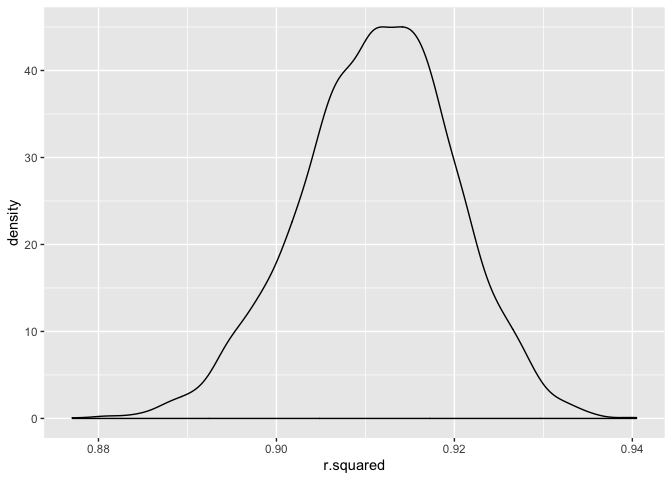
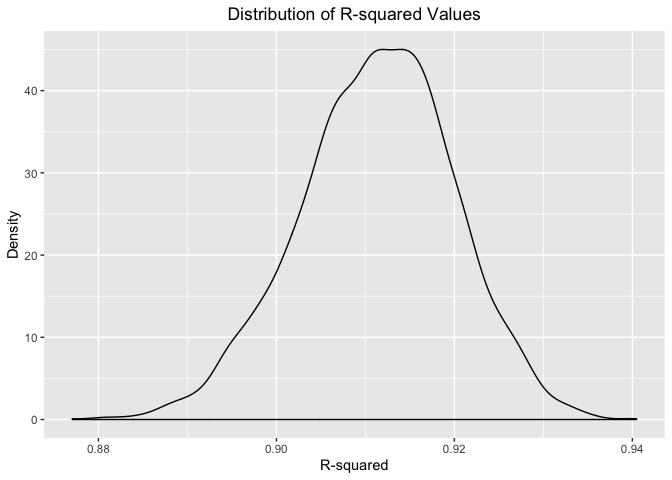
plot formatting

diff --git a/p8105_hw6_sm4594.md b/p8105_hw6_sm4594.md
@@ -330,7 +330,13 @@ weather_df %>%
 results = map(models, broom::glance)) %>% 
   select(results) %>% 
   unnest(results) %>% 
-  ggplot(aes(x = r.squared)) + geom_density()
+  ggplot(aes(x = r.squared)) + geom_density() +
+      labs(
+    title = "Distribution of R-squared Values",
+    x = "R-squared",
+    y = "Density"
+  ) +
+  theme(plot.title = element_text(hjust = 0.5))
 ```
 
 ![](p8105_hw6_sm4594_files/figure-gfm/bootstrap-1.png)<!-- -->
